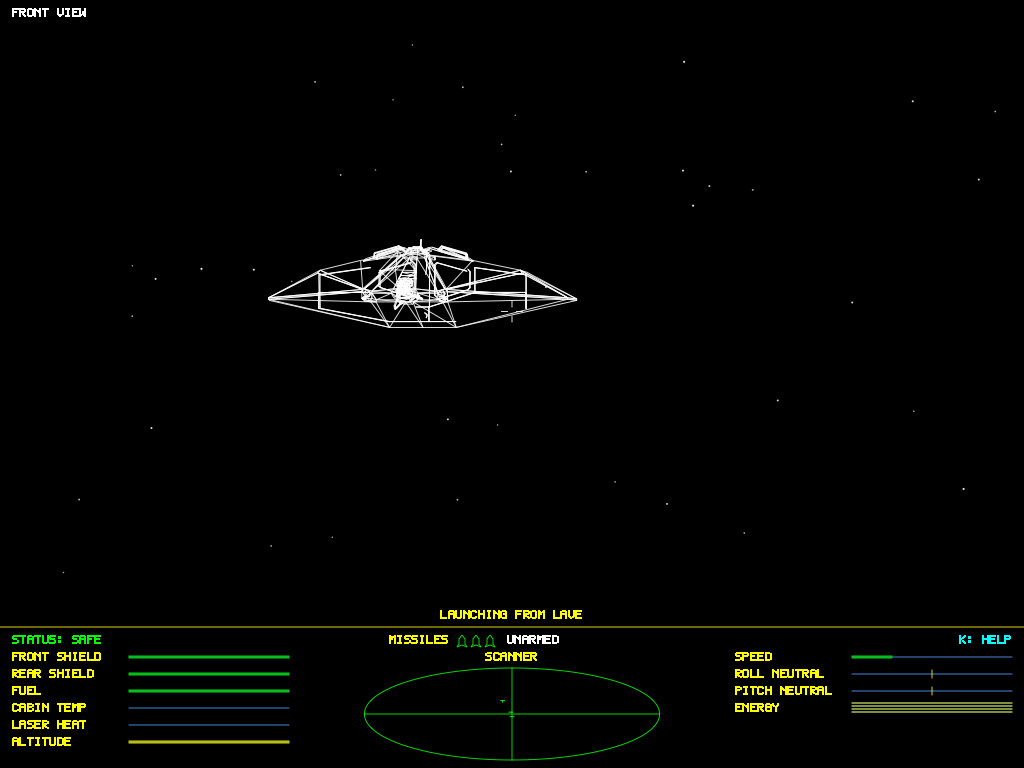
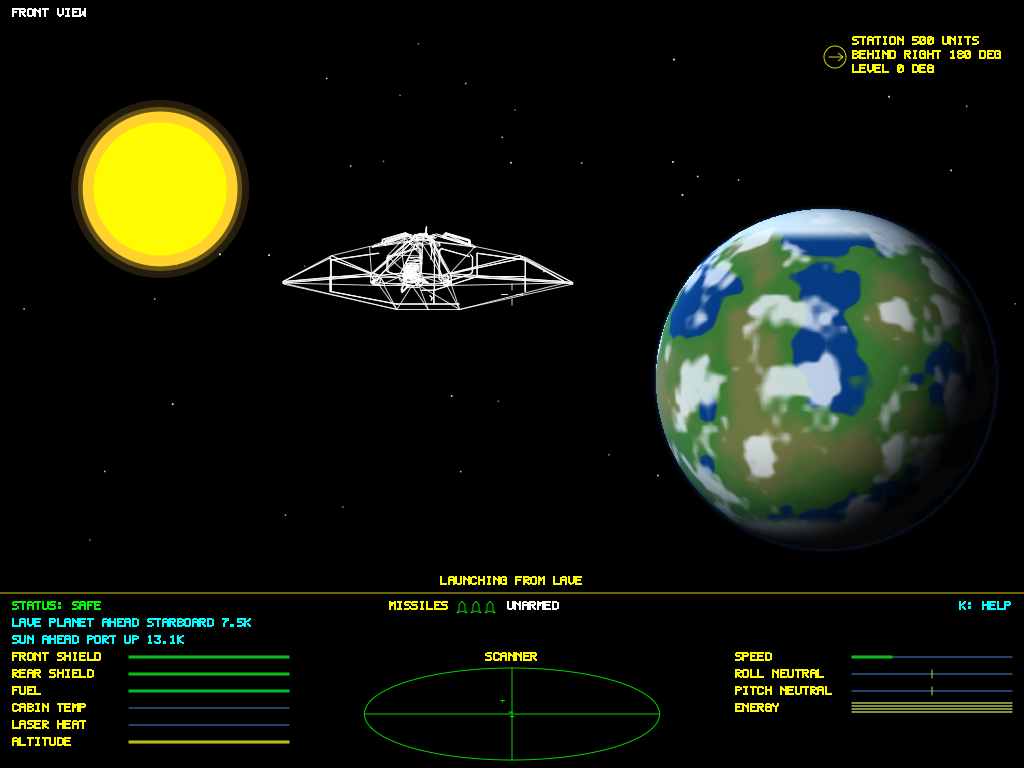
docs(game): update flight help and renderer-generated media

diff --git a/Sources/EliteCore/PlayerHelp.swift b/Sources/EliteCore/PlayerHelp.swift
@@ -273,11 +273,11 @@ public enum PlayerHelp {
         "RANGE IS IN LOCAL FLIGHT UNITS",
         "BEHIND - TURN TOWARD LEFT / RIGHT",
         "COMPASS UP / DOWN - STATION ELEVATION",
-        "0 / 1 / 2 / 3 - FRONT / REAR / LEFT / RIGHT",
+        "VIEWS: 0 FRONT; 1 REAR; 2 LEFT; 3 RIGHT",
         "COMPASS WORKS BEYOND SCANNER RANGE",
         "NO TARGETING COMPUTER NEEDED FOR CUE",
         "TAB - CYCLE SHIPS, THEN STATIONS",
-        "DOCKING TARGETING TIER OR BETTER FOR AUTO",
+        "AUTO: DOCKING TARGETING TIER OR BETTER",
         "AUTO FACES WAYPOINT, BRAKES, ALIGNS",
         "Q OR MANUAL CONTROLS - CANCEL AUTO",
       ]),

diff --git a/docs/DELIVERY-BACKLOG.md b/docs/DELIVERY-BACKLOG.md
@@ -9,13 +9,13 @@ This checklist separates implemented source, verified behaviour and released dow
 | Smooth, organic Thargoids | Coder 1 | Integrated | `organic-hulls.py`, 12 distinct forms; closed mesh/winding tests | Complete: smooth organic contact sheets and full-rotation renderer tests |
 | Coordinated palettes and material properties in each TOML | Coder 1 | Integrated | `ShipMaterial`, `ShipAppearance`, per-face assignments, ten authored palettes | Complete: loader/renderer tests; actual source textures remain metadata |
 | Preserve imported face colours, texture references and UVs | Coder 2 | Integrated | Importer commit `888700e`; exact geometry comparisons for 74 source meshes | Complete: 39 Python checks and fixed pre-revision digest fixture |
-| Liberator: three nacelles; buy/fly/save | Coder 1 | Integrated | `SH171.toml`, `liberator-design.py`, `LiberatorTests.swift` | Final native purchase/flight/docking/reload |
+| Liberator: three nacelles; buy/fly/save | Coder 1 | Integrated | `SH171.toml`, `liberator-design.py`, `LiberatorTests.swift` | Complete: native exchange, flight, physical forward docking and cold saved-commander reload |
 | Liberator: round green engine, two hemispheres, one band | Coder 1 | Integrated | Engine structural tests; rendered 24-frame rotation | Complete: native wide showroom, 24 rendered angles and structural tests |
 | Liberator: gold collector stays visible on exposed body | Coder 1 | Integrated | Grey hull no longer crosses collector interval; regression test and full rendered rotation | Complete: native wide showroom, 24 rendered angles and structural tests |
 | Top five profitable reachable planets; saved toggle; XYZZY default | Coder 2 | Integrated | `363df86`, `ProfitScan.swift`, focused budget/stock/hold/range tests | Complete: native toggles/navigation/empty results; 512-point toast overflow corrected after QA |
 | Startup title before continuing restored commander | Coder 2 | Integrated | `cf9a177`, `restoreStartup(from:)`, startup-save tests | Complete: native cold title/Continue with saved Liberator; missing/corrupt save regression tests |
-| Credits show version, repository and exact build SHA | Coder 2 | Integrated | `BuildIdentity.swift`, packaged metadata, startup tests | Final committed bundle metadata/title/credits check |
-| Compact charts: notes, map, facts, globe, legend and footer do not overlap | Coder 1 | Integrated | Reserved range-note area; `CompactChartTests.swift` | Complete: native 512/768/wide; scan-enabled layout tests. New compact toggle toast awaits final bundle recheck |
+| Credits show version, repository and exact build SHA | Coder 2 | Integrated | `BuildIdentity.swift`, packaged metadata, startup tests | Native debug identity verified; final committed signed bundle check remains |
+| Compact charts: notes, map, facts, globe, legend and footer do not overlap | Coder 1 | Integrated | Reserved range-note area; `CompactChartTests.swift` | Complete: native 512/768/wide; scan-enabled layout tests. Compact toggle notice bounds regression passes |
 | Keyboard, menus, contextual help and README agree | Coder 2 / Coder 1 | Integrated | `dab746c`, current-owned-ship wording; no essential End/F keys | Complete: native minimum-size contextual help; final flight guide update pending new mechanics |
 | Every ship loads from its own TOML with design and specs | Coder 1 | Carry-forward | `ShipCatalogue.load`, existing loader tests; 168 records | Complete: all 168 records validated with full-rotation renderer coverage |
 | GIF dependencies include specs, geometry, palettes and renderer; central catalogue | Coder 1 | Carry-forward | `ship-reference.py`, content-hash tests, `make ships` | Complete: all 168 GIFs current; `make ships-check` passed |
@@ -27,13 +27,13 @@ This checklist separates implemented source, verified behaviour and released dow
 | Mission schema shared with researcher | Coder 1 | Verified handoff | Explicit cross-chat handoff of `MISSION-PACKS.md` and current source boundaries; researcher acknowledged | Preserve schema-1 compatibility in engine branch |
 | Generic mission terminology and safe existing campaign behaviour | Coder 1 | Carry-forward | Existing mission-pack/gallery/dialog tests | Final suite; no unsupported research campaign activation |
 | Game-rendered icon, README media and ship previews | Coder 1 | Verified checkpoint | `make readme-media`, `make ships` | Complete for 197fb4b; repeat dependency checks after final flight rendering changes |
-| Coverage, thread/address sanitizers, memory leaks | Coder 1 | Checkpoint passed | 237 Swift tests, 93.09% coverage, both sanitizers pass, 0 leaked bytes; 39 Python tests | Repeat `make ci` after new flight mechanics integrate |
+| Coverage, thread/address sanitizers, memory leaks | Coder 1 | Checkpoint passed | 237 Swift tests, 93.09% coverage, both sanitizers pass, 0 leaked bytes; 39 Python tests | Integrated 268 tests/93.27% coverage passed; final thread/address/leak gates running |
 | Protected main, exact-commit Sonar, signed/notarized universal download | Coder 1 | Pending delivery | Existing protected-main/release workflow; valid `elite-release` profile | PR checks/merge, exact-main Sonar, notarization/public-download verification |
-| Visible planet and sun in actual flight space | Coder 2 | In progress | Isolated `solar-flight-gameplay` branch; shared-coordinate integration agreed | Deterministic world motion/projection plus native all-view flight |
-| Solar fuel scooping, cabin heating/cooling and lethal overheating | Coder 2 | In progress | Fitted scoops, fuel cap/rate, heat/death hooks in progress | Fly close/back away; equipment/facing/proximity/cap/XYZZY/thermal tests |
-| Persistent station direction cue beyond scanner range | Coder 1 | In progress | Independent station navigation bearing/distance helper and HUD overlay | Offscreen/behind/all-view cue and minimum-window layout/native checks |
-| Clean forward-facing station approach and physical docking | Coder 1 | In progress | Transit waypoint bearing separated from final entrance orientation | Front/back/off-axis/tilted/high-speed completion, braking/collision and native approach |
-| Ships, station, planet and sun appear on the correct side/rear when passed | Coder 1 / Coder 2 | In progress | Existing view transforms retained; explicit known-position fly-past tests | Deterministic four-view projection and native fly-past sequence |
+| Visible planet and sun in actual flight space | Coder 2 | Integrated | `8115302`, `dd27810`, `7d809a6`; shared motion, depth order and near-plane limb tests | Native solar owner finishing all-view approach/retreat check |
+| Solar fuel scooping, cabin heating/cooling and lethal overheating | Coder 2 | Integrated | `CelestialFlight.swift`, fitted scoop/rate/cap/facing/thermal/XYZZY tests; native fuel collection observed | Native retreat/cooling completion and final quality gates |
+| Persistent station direction cue beyond scanner range | Coder 1 | Verified source | `StationNavigation.swift`; seven focused tests including 512-point overlays and alignment residual | Complete: native behind/ahead cue during automatic docking |
+| Clean forward-facing station approach and physical docking | Coder 1 | Verified source | Phased `AutoTargetControl`; ten focused tests including actual launch for Cobra/Liberator | Complete: native Liberator centred doorway, forward closure and Docked |
+| Ships, station, planet and sun appear on the correct side/rear when passed | Coder 1 / Coder 2 | Integrated | Existing correct transforms retained; known-position motion/four-view/near-plane tests | Native solar four-view check finishing |
 | Fully scriptable mission engine | Mission researcher | Separate branch in progress | `feature/scriptable-mission-engine`, approved design in `docs/research` | Engine owner's implementation/compatibility/physical capability gates; no premature playable claims |
 
 Imported geometry, source profiles, gameplay values, stable ship IDs and existing saves must survive the visual revision. Ship livery defaults are explicitly project adaptations. Archival texture names/UVs are not texture pixels, and unknown texture rights are not inferred from a geometry licence. The renderer currently uses actual geometry, diffuse material colour and emissive panels.

diff --git a/docs/PR-ship-designs-and-ux.md b/docs/PR-ship-designs-and-ux.md
@@ -8,13 +8,15 @@ The Liberator SH171 is purchasable/flyable at 415,000 CR. Three radial nacelles,
 
 Parallel contributions restore the title before continuing the saved commander, embed version/repository/exact build SHA, add a saved top-five profitable reachable-destination scan enabled by XYZZY, and reconcile controls/help/docs. Compact charts reserve separate range-note/data space and place profit ranks in collision-aware planet labels. MacBook keys remain sufficient. Source schema sharing with the mission researcher is explicitly acknowledged; the engine remains a separate branch.
 
+The flight scene now contains a moving planet and sun, solar fuel collection with fitted scoops, cabin heating/cooling, and fatal overheating or surface impacts. A yellow station compass works beyond scanner range in every cockpit view. Station guidance faces safe transit waypoints, brakes outside the entrance, aligns with the doorway/spin and closes forward through the physical docking aperture. Its rear detour uses a nonspinning station axis, preventing an avoidance waypoint from orbiting faster than the ship. Four-view and near-plane regressions preserve visible celestial limbs during fly-pasts.
+
 ## Validation
 
 - 39 Python checks pass, including source-data preservation, complete recipe regeneration, closed parts/winding/planarity, true panel recesses and clean/organic exclusions.
 - All 93 complete generated outputs match on Python 3.12 and 3.14; equal-area corner tie selection is deterministic without snapping coordinates.
-- Combined Swift coverage: 237 tests, 93.09%; thread sanitizer: 237 tests passed. Final address/leak gate and release verification are recorded in the delivery checklist when complete.
+- Combined Swift coverage: 268 tests, 93.27%. The final sanitizer/leak run and signed release verification remain pending in the delivery checklist; the prior 237-test checkpoint passed all runtime gates.
 - All 168 GIFs, overview/catalogue and README media are regenerated by the game workflows. Front/quarter catalogue sheets and representative full rotations were visually reviewed.
-- Native isolated fixtures verify restored title/commander, compact chart/profit labels, reviewed Challenger exchange, actual flight and completed automatic docking, with original user save hash unchanged. Final release-size/Liberator checks remain recorded separately.
+- Native isolated fixtures verify restored title/commander, compact 512-point chart/help, profit labels, reviewed Challenger exchange, refined hull appearance and an actual Liberator forward approach through the doorway to Docked. Cash, fuel and fit survive docking/reload, and the original user save hash remains unchanged. Solar approach/retreat evidence is recorded by the parallel owner.
 
 ## Compatibility and limits
 

diff --git a/README.md b/README.md
@@ -147,7 +147,7 @@ Auto-trade runs when enabled while docked and on subsequent docking. It sells tr
 
 ## Cockpit and AUTO assistance
 
-The flight view uses the full window width and native resolution, with antialiased wireframes and small point stars. Resize the window or enter full screen using the green window button. The original bitmap font stays at a compact readable size. Instruments are labelled Front shield, Rear shield, Fuel, Cabin temp, Laser heat, Altitude, Speed, Roll, Pitch and Energy; signed controls have a centre marker and neutral label. Status names are explicit. The decorative planet has been removed. The central scanner expands with the window, while supporting bars have a maximum width so they stay compact in full screen.
+The flight view uses the full window width and native resolution, with antialiased wireframes and small point stars. Resize the window or enter full screen using the green window button. The original bitmap font stays at a compact readable size. Instruments are labelled Front shield, Rear shield, Fuel, Cabin temp, Laser heat, Altitude, Speed, Roll, Pitch and Energy; signed controls have a centre marker and neutral label. Status names are explicit. The system planet and sun occupy actual flight space; the HUD shows their bearings in the current view. The central scanner expands with the window, while supporting bars have a maximum width so they stay compact in full screen.
 
 The missile rack shows one icon per finite missile, `None` for an empty rack, or one icon with the literal `~` for unlimited missiles. Armed and Unarmed are written as well as coloured.
 

diff --git a/docs/ISSUE-ship-designs-and-ux.md b/docs/ISSUE-ship-designs-and-ux.md
@@ -10,6 +10,6 @@ The player's audit identified additional missing behaviour: reachable profit ran
 
 Revise every existing project-authored hull with appropriate primary structures and real surface geometry, retain intentional clean/organic surfaces, preserve all source geometry/gameplay/reference profiles, and store actual final designs/materials in individual TOMLs. Add the purchasable Liberator and correct its engine/collector. Preserve source colour/texture/UV facts without pretending to render unbundled textures.
 
-Integrate the audited startup, profit, chart and control fixes. Verify actual native browsing, exchange, flight, docking and saved progress; regenerated full catalogue/README media; coverage, sanitizers and leaks; protected-main publication, exact-main Sonar and a verified signed/notarized download. The separate scriptable mission-engine branch must retain its honest capability boundary.
+Integrate the audited startup, profit, chart and control fixes, plus visible celestial flight objects, solar scooping/thermal danger, persistent station bearings and forward-facing physical docking. Verify actual native browsing, exchange, flight, docking and saved progress; regenerated full catalogue/README media; coverage, sanitizers and leaks; protected-main publication, exact-main Sonar and a verified signed/notarized download. The separate scriptable mission-engine branch must retain its honest capability boundary.
 
 See [the shared checklist](DELIVERY-BACKLOG.md) and [per-ship revision table](SHIP-DESIGNS.md).
